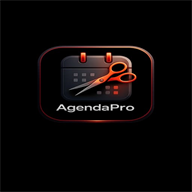
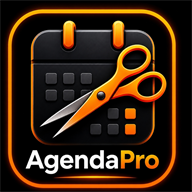
feat: atualiza ícone do app com imagem do salão (512x512 e 192x192)
- icon-512.png e icon-192.png substituídos pela nova foto do salão
- Convertido de JPEG (1034x1000) para PNG com redimensionamento bicúbico
- SW bumpa para agendapro-v7 para invalidar cache dos ícones antigos

diff --git a/sw.js b/sw.js
@@ -1,4 +1,4 @@
-const CACHE = 'agendapro-v6';
+const CACHE = 'agendapro-v7';
 
 // Arquivos HTML — sempre buscados na rede (network-first)
 const HTML_FILES = [
